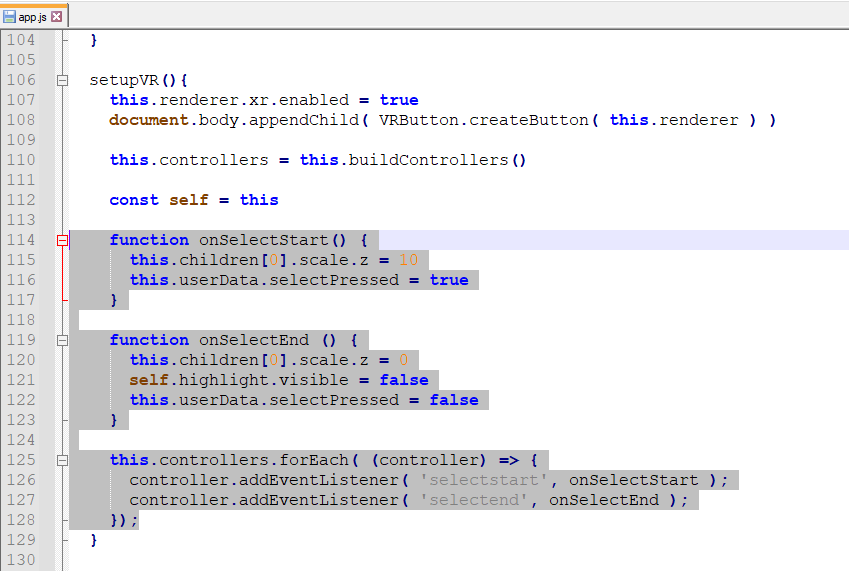
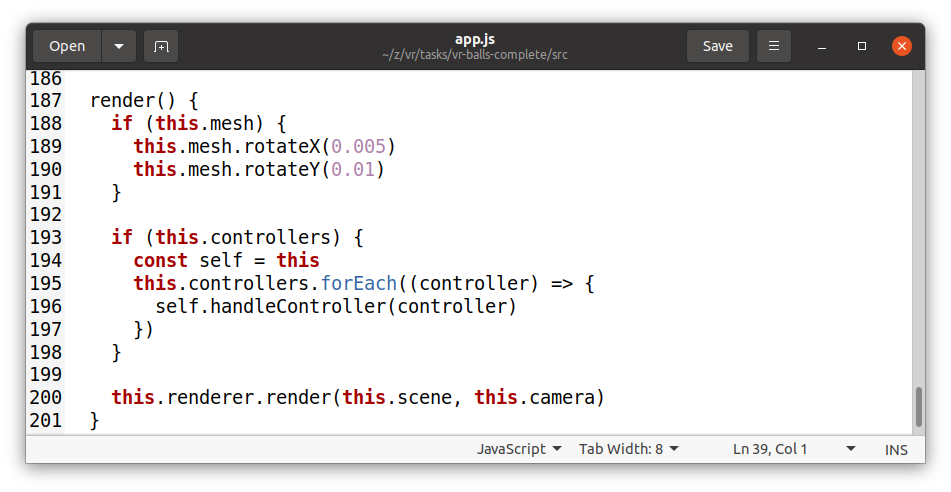
Update

diff --git a/README.md b/README.md
@@ -75,22 +75,43 @@ Link: https://creodias.eu/-/how-to-open-ports-in-windows-
 
 ## Step 4: Add object selection with VR controllers
 
-- Add highlight object for indicating selected items
+- In `initScene()` method add `highlight` field to the class for indicating selected items
+```
+    this.highlight = new THREE.Mesh ( geometry, new THREE.MeshBasicMaterial( {
+      color: 0xFFFFFF, side: THREE.BackSide }))
+    this.highlight.scale.set( 1.2, 1.2, 1.2)
+    this.scene.add( this.highlight )
+```
 
   ![](docs/step4-1.png)
 
-- Highlight first object which intersect controller grip beam
-
+- Add actions for press and release button on grip controller
   ![](docs/step4-2.png)
 
-- Add `handleController` method
+- In `handleController()` method highlight first object which intersect controller grip beam
+```
+    if (controller.userData.selectPressed) {
+      controller.children[0].scale.z = 10
+      this.workingMatrix.identity().extractRotation( controller.matrixWorld)
+
+      this.raycaster.ray.origin.setFromMatrixPosition(controller.matrixWorld)
+
+      this.raycaster.ray.direction.set(0, 0, -1).applyMatrix4(this.workingMatrix)
+
+      const intersects = this.raycaster.intersectObjects(this.room.children)
+
+      if (intersects.length > 0) {
+        intersects[0].object.add(this.highlight)
+        this.highlight.visible = true
+        controller.children[0].scale.z = intersects[0].distance
+      } else {
+        this.highlight.visible = false
+      }
+    }
+```
 
   ![](docs/step4-3.png)
 
-- Extend `setupVR` method
+- Each `render()` circle should invoke `handleController()` method for each grip
 
   ![](docs/step4-4.png)
-
-- Extend `render` method
-
-  ![](docs/step4-5.png)
